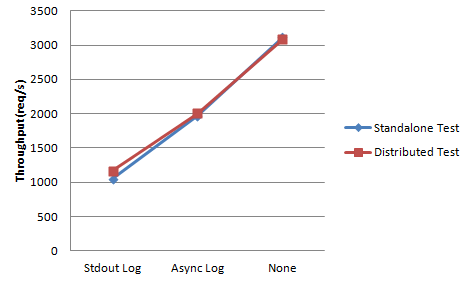
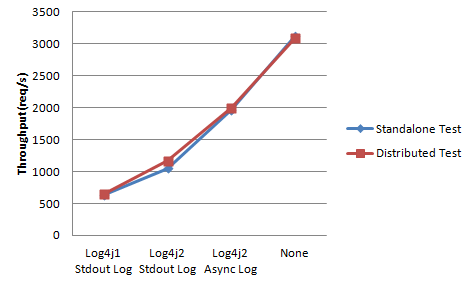
updated log4j1 tests

diff --git a/_posts/2017-08-25-stress-test-on-company-with-jmeter-in-k8s.md b/_posts/2017-08-25-stress-test-on-company-with-jmeter-in-k8s.md
@@ -18,7 +18,7 @@ Stress test is an effective way to evaluate the performance of web applications.
 
 From the [last post](http://servicecomb.io/docs/autoscale-on-company/), we figured out the manager service demands the most of the resources. Hence, in this plan, we want to find out the maximum performance of our manager service and find out the bottleneck of our system according to the maximum performance. Our JMeter test plan is shown in fig-1.  
 
-![fig-1 JMeter test plan]({{ site.url }}{{ site.baseurl }}/assets/images/company_test_plan.png){: .align-center}
+![fig-1 JMeter test plan](/assets/images/company_test_plan.png){: .align-center}
 fig-1 JMeter test plan
 {: .figure-caption}
 
@@ -49,25 +49,25 @@ jmeter -n -t workshop.jmx -j workshop.log -l workshop.jtl -Jthreads=100 -Jdurati
 
 We test for a duration of 600 seconds to get a more stable result.  The number of threads we test vary from 1, 5, 8, 10, 15, 20, 100, 200 as fig-2 shows. 
 
-![fig-2 Performance among various concurrency]({{ site.url }}{{ site.baseurl }}/assets/images/company_concurrency_performance.png){: .align-center}
+![fig-2 Performance among various concurrency](/assets/images/company_concurrency_performance.png){: .align-center}
 fig-2 Performance among various concurrency
 {: .figure-caption}
 
 fig-2 shows that performance of manager service were stable until it reached the bottleneck(at concurrency of 15), it speeds up to 1000 requests per seconds while keeping the average response time low. Later on, as the concurrency increased, the average response time increased dramatically. The response time statistics can be helpful when evaluating the circuit-break timeout settings. 
 
-![fig-3 Average response time among different services]({{ site.url }}{{ site.baseurl }}/assets/images/company_response_time.png){: .align-center}
+![fig-3 Average response time among different services](/assets/images/company_response_time.png){: .align-center}
 fig-3 Average response time among different services
 {: .figure-caption}
 
 fig-3 shows the average response time of different services. As the beekeeper service relies on the worker service, it had a longer response time than the worker service.
 
-![fig-4 CPU Load on various concurrency]({{ site.url }}{{ site.baseurl }}/assets/images/company_cpu_load.png){: .align-center}
+![fig-4 CPU Load on various concurrency](/assets/images/company_cpu_load.png){: .align-center}
 fig-4 CPU Load on various concurrency
 {: .figure-caption}
 
 To find out why the performance stuck at the concurrency of 15, we checked the monitor data from [heapster](https://github.com/kubernetes/heapster) as fig-4 shows. Apparently, manager service became the bottleneck of the whole system. It reached the maximum cpu load when the throughput was around 1000 req/s. Other services increased much slower than manager service and required less resources. 
 
-The performance of manager service seems to be quite poor. As manager service logs directly to the stdout, which may become a burden when too many concurrent requests. Besides, the JMeter test client running on a single host may not simulate enough concurrency simultaneously. To verify these causes, we tested on different scenes of log settings(stdout, asynchronous, none) at the concurrency of 200. The *asynchronous* log settings in *log4j2.xml* file is as follows:
+The performance of manager service seems to be quite poor. As manager service logs directly to the stdout, which may become a burden when too many concurrent requests. Besides, the JMeter test client running on a single host may not simulate enough concurrency simultaneously. To verify these causes, we tested on different scenes of log settings(log4j1 stdout, log4j2 stdout, log4j2 asynchronous, none) at the concurrency of 200. The *asynchronous* log settings in *log4j2.xml* file is as follows:
 ```xml
 <?xml version="1.0" encoding="UTF-8" ?>
 <Configuration status="INFO">
@@ -104,7 +104,7 @@ jmeter -n -R host1,host2 -t workshop.jmx -j workshop.log -l workshop.jtl -Gmin=1
 
 The results are as follows:
 ![different log and different JMeter settings](/assets/images/company_log_and_jmeter.png){: .align-center}
-From the above figure, the performance in JMeter distributed mode and single mode are so close, it seems that a single JMeter test client is able to simulate enough concurrency for the current test. Besides, the log takes up too many computing resources when directly output to stdout and the asynchronous way has improved nearly 100% performance of the original. Seems like using the synchronous log settings may not be wise in production environment.
+From the above figure, the performance in JMeter distributed mode and single mode are so close, it seems that a single JMeter test client is able to simulate enough concurrency for the current test. Besides, the log takes up too many computing resources when directly output to stdout and the asynchronous way has improved nearly 100% throughput of the original. Seems like using the synchronous log settings may not be wise in production environment. Besides, the log4j2 has improved about 40% throughput of the log4j1 and reduced a small amount of memory. Hence, it's recommended to replace the log4j1 with log4j2 for the sake of performance.
 
 ![fig-5 memory usage of different log settings](/assets/images/company_different_log_memory_usage.png){: .align-center}
 fig-5 memory usage of different log settings
@@ -112,7 +112,7 @@ fig-5 memory usage of different log settings
 
 Although the asynchronous way save us much computing resources, it takes up a great deal of memory in the meanwhile as fig-5 shows.
 
-![fig-6 Memory Usage of different services]({{ site.url }}{{ site.baseurl }}/assets/images/company_memory_used.png){: .align-center}
+![fig-6 Memory Usage of different services](/assets/images/company_memory_used.png){: .align-center}
 fig-6 Memory Usage of different services
 {: .figure-caption}
 

diff --git a/_posts/cn/2017-08-25-stress-test-on-company-with-jmeter-in-k8s.md b/_posts/cn/2017-08-25-stress-test-on-company-with-jmeter-in-k8s.md
@@ -18,7 +18,7 @@ redirect_from:
 
 　　在[《微服务化后的按需精细化资源控制》](http://servicecomb.io/cn/docs/autoscale-on-company/)一文中已经知道经理服务的资源需求最大，因此本次压力测试主要用于找出Company应用中的经理服务的最大性能点，并根据这最大性能点找出系统当前的瓶颈。制定的测试计划如下所示：
 
-![图1 测试计划]({{ site.url }}{{ site.baseurl }}/assets/images/company_test_plan.png)  
+![图1 测试计划](/assets/images/company_test_plan.png)  
 图1 测试计划
 {: .figure-caption}
 
@@ -60,7 +60,7 @@ jmeter -n -t workshop.jmx -j workshop.log -l workshop.jtl -Jthreads=100 -Jdurati
 
 　　为了找出性能卡在了15并发度时的原因，我们回看了[heapster](https://github.com/kubernetes/heapster)上的监控数据。如图4所示，显然，经理服务是当前系统的瓶颈所在。它在吞吐量为1000 req/s时达到了最大的CPU负载。 相对而言，其它服务对资源的需求的增长速度要慢得多。
 
-　　经理服务的性能表现得不尽人意。很大一部分原因可能是由于经理服务的日志是直接输出到stdout上的，而这在并发量较大的情况下就会成为负担。此外，JMeter的测试端以单机模式运行时可能并不能同时模拟出足够的并发量。为了验证这些原因，我们对在同一并发度（200）下不同log的设置（stdout,， 异步，无）进行测试。其中，异步log在*log4j2.xml*文件中的设置如下所示：
+　　经理服务的性能表现得不尽人意。很大一部分原因可能是由于经理服务的日志是直接输出到stdout上的，而这在并发量较大的情况下就会成为负担。此外，JMeter的测试端以单机模式运行时可能并不能同时模拟出足够的并发量。为了验证这些原因，我们对在同一并发度（200）下不同log的设置（log4j1, log4j2 stdout，log4j2 异步，无）进行测试。其中，异步log在*log4j2.xml*文件中的设置如下所示：
 
 ```xml
 <?xml version="1.0" encoding="UTF-8" ?>
@@ -102,7 +102,7 @@ jmeter -n -R host1,host2 -t workshop.jmx -j workshop.log -l workshop.jtl -Gmin=1
 
 ![不同日志设置不同模式下的性能](/assets/images/company_log_and_jmeter.png){: .align-center}
 
-　　从上图可以看出，JMeter单机测试和分布式测试的性能都非常接近，说明单机模式的JMeter测试暂时来说是足以模拟出足够的并发数来处理当前的测试场景的。此外，日志的输出的确对系统的性能造成了较大的影响，可以看到，异步输出日志的方式能比同步输出的方式提升接近100%的性能。因此，在生产环境下使用完全同步输出日志的方式可能并不会有较理想的性能。
+　　从上图可以看出，JMeter单机测试和分布式测试的性能都非常接近，说明单机模式的JMeter测试暂时来说是足以模拟出足够的并发数来处理当前的测试场景的。此外，日志的输出的确对系统的性能造成了较大的影响，可以看到，异步输出日志的方式能比同步输出的方式提升接近100%的吞吐量。因此，在生产环境下使用完全同步输出日志的方式可能并不会有较理想的性能。此外，log4j2的吞吐量相对于log4j1而言大幅提高了约40%，内存使用量也更少了，因此，推荐使用性能更佳的log4j2替换掉陈旧的log4j1。
 
 ![图5 不同日志设置下的内存使用量](/assets/images/company_different_log_memory_usage.png){: .align-center}
 图5 不同日志设置下的内存使用量
